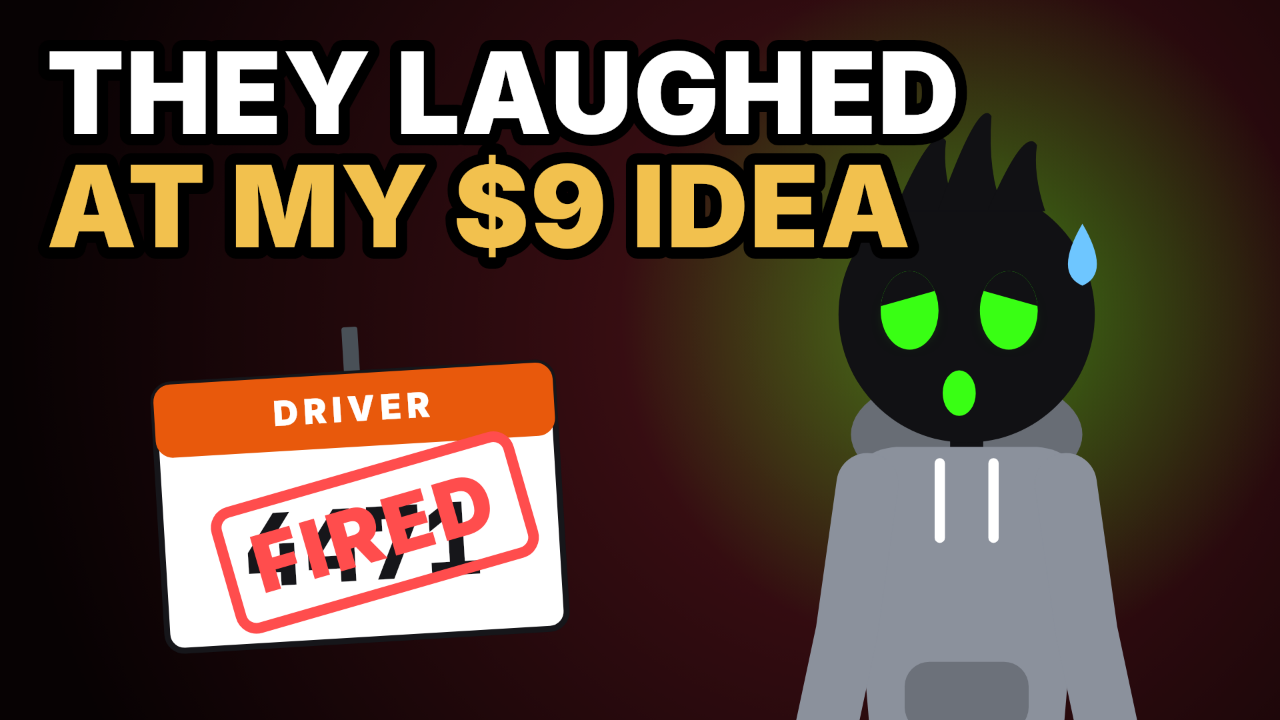
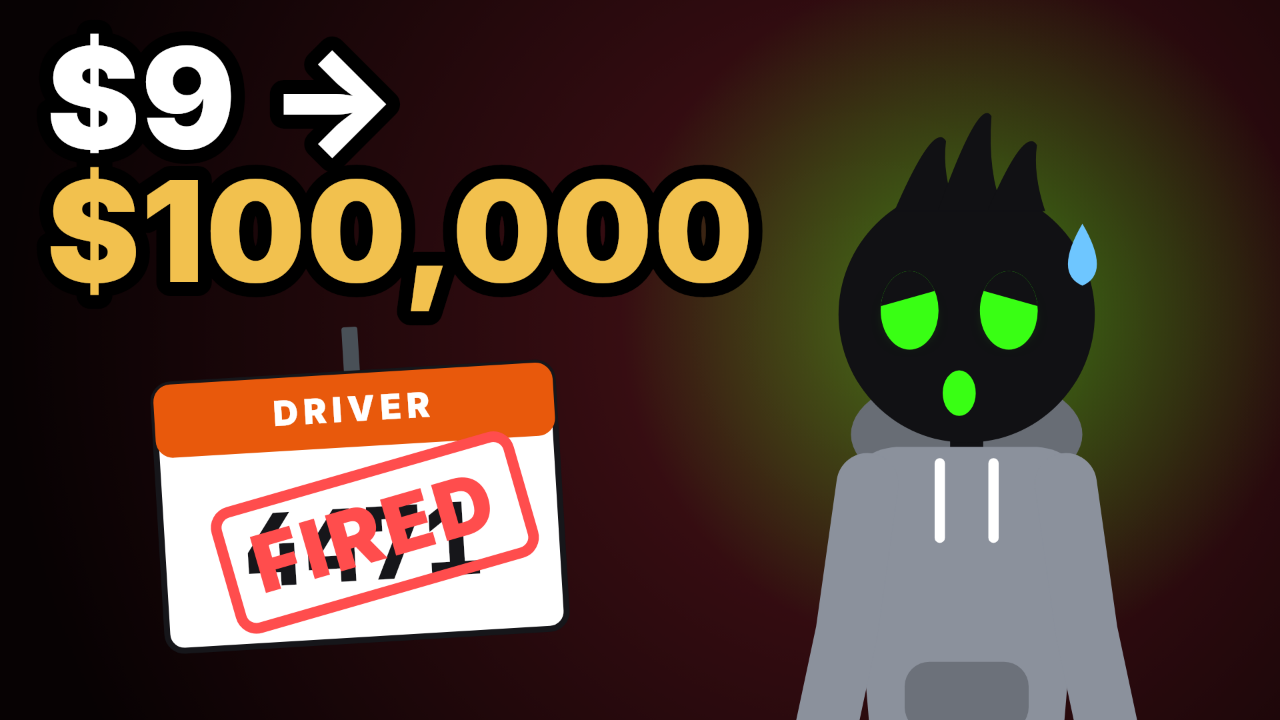
Episode 01 thumbnail: $9 → $100,000
Claude-Session: https://claude.ai/code/session_01UubEVCKiae4fQMMXe8NSd5

Changed region(s): [[0.0312, 0.0306, 0.7812, 0.4583]]

diff --git a/episodes/01-nine-dollars/thumbnail.js b/episodes/01-nine-dollars/thumbnail.js
@@ -3,7 +3,7 @@ const path = require('path');
 const K = require('../../engine/kit');
 const { big, bust, stamp, halo, render } = require('../../engine/thumb');
 
-// "THEY LAUGHED AT MY $9 IDEA", Kai, his driver badge stamped FIRED
+// "$9 → $100,000", Kai, his driver badge stamped FIRED
 render(path.join(__dirname, 'out', 'thumbnail.png'), () => {
   K.bg('#4a1218', '#070203', 1300, 500, 1300);
   K.at(540, 760, 1.0, () => {
@@ -13,5 +13,5 @@ render(path.join(__dirname, 'out', 'thumbnail.png'), () => {
     stamp('FIRED', 20, 40, 1.0, -0.22);
   }, -0.06);
   halo(1450, 470); bust('kai', 1450, 470, 3.1, 'worried', { look: -0.4 });
-  big('THEY LAUGHED', 70, 150, 170, '#ffffff'); big('AT MY $9 IDEA', 70, 320, 170, K.GOLD);
+  big('$9 →', 70, 160, 210, '#ffffff'); big('$100,000', 70, 360, 210, K.GOLD);
 });

diff --git a/episodes/01-nine-dollars/youtube.md b/episodes/01-nine-dollars/youtube.md
@@ -8,9 +8,10 @@
 
 ## Title (pick one)
 
-1. **They Laughed at His $9 Idea. 18 Months Later, They Asked Him for Help** (recommended; matches the thumbnail)
-2. Fired Delivery Driver Turns a $9 Spreadsheet Into a New Life
-3. He Had $43 and Lost His Job. Then He Built This.
+1. **They Laughed at His $9 Idea. It Made $100,000.** (recommended; matches the thumbnail)
+2. They Laughed at His $9 Idea. 18 Months Later, They Asked Him for Help
+3. Fired Delivery Driver Turns a $9 Spreadsheet Into a New Life
+4. He Had $43 and Lost His Job. Then He Built This.
 
 ## Description
 
